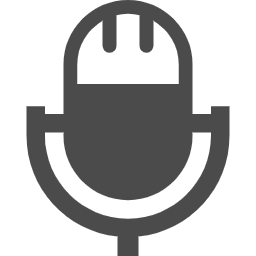
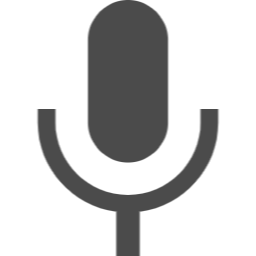
カメラ修正、カメラ・マイクボタンデザイン変更
・カメラ停止時に3Dモデルも隠れるようにした
・カメラ・マイクのON/OFFでボタンデザインが変わるようにした

diff --git a/public/javascripts/script.js b/public/javascripts/script.js
@@ -188,38 +188,36 @@ const Peer = window.Peer;
 
   const toggleCamera = document.getElementById('js-toggle-camera');
   const toggleMicrophone = document.getElementById('js-toggle-microphone');
-  const canvas = document.getElementById('canvas');
+  
   
 
   //ボタン押した時のカメラ関係の動作
 toggleCamera.addEventListener('click', () => {
+  const canvas2 = document.getElementById('canvas2');
   const videoTracks = localStream.getVideoTracks()[0];
   videoTracks.enabled = !videoTracks.enabled;
   console.log(videoTracks.enabled)
-  // toggleCamera.toggleClass('camera-btn');
-  // toggleCamera.toggleClass('camera-btn_OFF');
-
-  if(videoTracks.enabled == true){
-
-  }
-  else{
-     // 2Dのコンテキストを取り出す
-     var ctx = canvas.getContext('2d');
-     // 指定の色で範囲内を塗りつぶす
-     ctx.fillStyle = 'rgb(255,255,255)';
-     ctx.fillRect(0, 0, 200, 200);
-  }
 
   toggleCamera.className = `${videoTracks.enabled ? 'camera-btn' : 'camera-btn_OFF'}`;
+  canvas2.className = `${videoTracks.enabled  ? '' : 'canvas2_cover'}`;
 
 });
+
+
+// function canvas2hide(){
+//   // コンテキストを取り出す
+//   var ctx = canvas2.getContext('2d');
+//   // 指定の色で範囲内を塗りつぶす
+//   ctx.fillStyle = 'rgb(255,255,255)';
+//   ctx.fillRect(0, 0, 200, 200);
+// }
 
 //ボタン押した時のマイク関係の動作
 toggleMicrophone.addEventListener('click', () => {
   const audioTracks = localStream.getAudioTracks()[0];
   audioTracks.enabled = !audioTracks.enabled;
   console.log(audioTracks.enabled)
-  toggleMicrophone.textContent = `マイク${audioTracks.enabled ? 'ON' : 'OFF'}`;
+  toggleMicrophone.className = `${audioTracks.enabled ? 'mic-btn' : 'mic-btn_OFF'}`;
 });
 
 

diff --git a/public/stylesheets/style.css b/public/stylesheets/style.css
@@ -199,6 +199,36 @@ video {
   vertical-align: middle;
 }
 
+.mic-btn_OFF{
+  display: inline-block;
+  text-decoration: none;
+  background: #3B1D70;
+  color: #FFF;
+  width: 60px;
+  height: 60px;
+  line-height: 60px;
+  border-radius: 50%;
+  text-align: center;
+  overflow: hidden;
+  transition: .4s;
+}
+.mic-btn_OFF:hover{
+  background: #ffffff;
+}
+.mic-btn_OFF:before {
+  content: "";
+  display: inline-block;
+  width: 30px;
+  height: 30px;
+  background: url("./mic_OFF.png") no-repeat;
+  background-size: contain;
+  vertical-align: middle;
+}
+
+.canvas2_cover{
+  filter: brightness(0%);
+}
+
 /* スマホ写した時 */
 @media screen and (max-width: 380px){
   .room {
